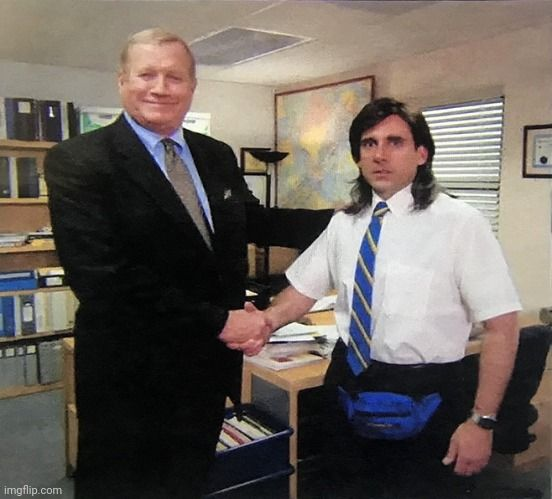
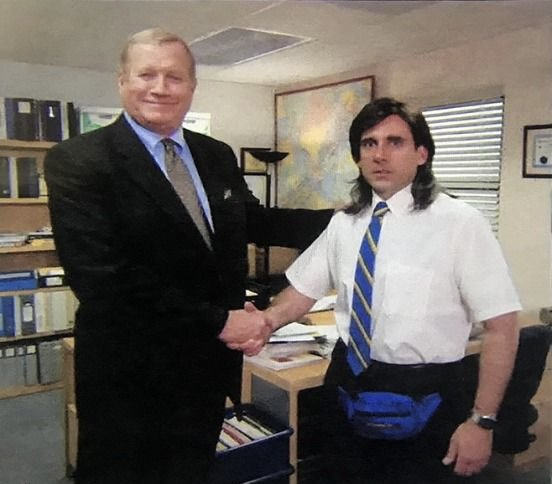
remove imgflip.com watermark

diff --git a/commands/Fun/ohs.js b/commands/Fun/ohs.js
@@ -37,7 +37,7 @@ exports.run = async (client, message, args) => {
     }
 
     if (arg.length === 2) {
-        const canvas = Canvas.createCanvas(552, 499);
+        const canvas = Canvas.createCanvas(552, 484);
         const ctx = canvas.getContext('2d');
         Canvas.loadImage('./templates/office_handshake.jpg').then(async (i) => {
             ctx.drawImage(i, 0, 0, canvas.width, canvas.height);
